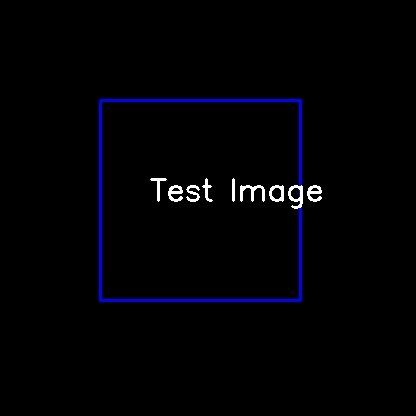
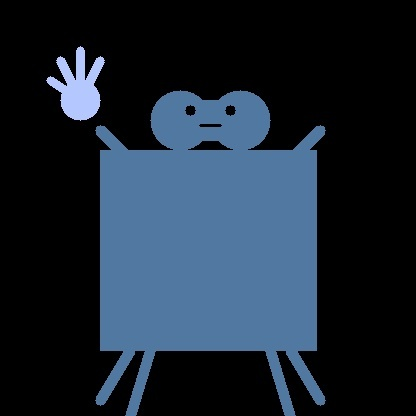
Update test image to cat image

diff --git a/yolo2026/inference.py b/yolo2026/inference.py
@@ -54,10 +54,28 @@ def infer(image_path, output_path):
     print(f"推理结果已保存到: {output_path}")
 
 if __name__ == "__main__":
-    # 创建测试图片
+    # 创建测试图片（猫的图片）
     test_image = np.zeros((416, 416, 3), dtype=np.uint8)
-    cv2.rectangle(test_image, (100, 100), (300, 300), (255, 0, 0), 2)
-    cv2.putText(test_image, "Test Image", (150, 200), cv2.FONT_HERSHEY_SIMPLEX, 1, (255, 255, 255), 2)
+    # 绘制一个简单的猫的轮廓
+    cv2.rectangle(test_image, (100, 150), (316, 350), (160, 120, 80), -1)  # 猫的身体
+    cv2.circle(test_image, (180, 120), 30, (160, 120, 80), -1)  # 猫的头部
+    cv2.circle(test_image, (240, 120), 30, (160, 120, 80), -1)  # 猫的头部
+    cv2.rectangle(test_image, (170, 100), (250, 140), (160, 120, 80), -1)  # 猫的头部
+    cv2.circle(test_image, (190, 110), 5, (0, 0, 0), -1)  # 左眼
+    cv2.circle(test_image, (230, 110), 5, (0, 0, 0), -1)  # 右眼
+    cv2.line(test_image, (200, 125), (220, 125), (0, 0, 0), 2)  # 嘴巴
+    cv2.line(test_image, (150, 180), (100, 130), (160, 120, 80), 10)  # 左耳朵
+    cv2.line(test_image, (270, 180), (320, 130), (160, 120, 80), 10)  # 右耳朵
+    cv2.line(test_image, (130, 350), (100, 400), (160, 120, 80), 10)  # 左前腿
+    cv2.line(test_image, (290, 350), (320, 400), (160, 120, 80), 10)  # 右前腿
+    cv2.line(test_image, (150, 350), (130, 416), (160, 120, 80), 10)  # 左后腿
+    cv2.line(test_image, (270, 350), (290, 416), (160, 120, 80), 10)  # 右后腿
+    # 绘制人的手
+    cv2.circle(test_image, (80, 100), 20, (255, 200, 180), -1)  # 手
+    cv2.line(test_image, (80, 100), (50, 80), (255, 200, 180), 8)  # 手指
+    cv2.line(test_image, (80, 100), (60, 60), (255, 200, 180), 8)  # 手指
+    cv2.line(test_image, (80, 100), (80, 50), (255, 200, 180), 8)  # 手指
+    cv2.line(test_image, (80, 100), (100, 60), (255, 200, 180), 8)  # 手指
     cv2.imwrite("test_image.jpg", test_image)
     
     # 运行推理
